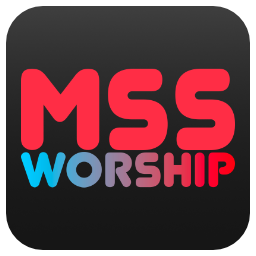
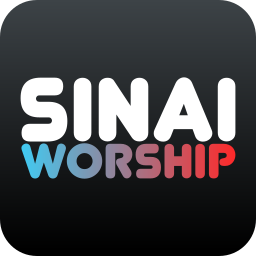
v 0.1.0 :33

diff --git a/src/ui/GlobalContext.tsx b/src/ui/GlobalContext.tsx
@@ -1,40 +1,40 @@
-import { createContext, useState, useLayoutEffect } from "react";
+import { createContext, useState, useEffect, useLayoutEffect } from "react";
 
 export const GlobalContext = createContext<GlobalContextType | null>(null);
-const GlobalContextProvider: React.FC<{ children: React.ReactNode }> = ({ 
+const GlobalContextProvider: React.FC<{ children: React.ReactNode }> = ({
   children,
 }) => {
-  const MAX_LIVE_ELEMENTS = 5;
-  // --- live element --------------------------------------------------------- 
-  const makeLiveElementsState = (): LiveElementsState => {
-    const [v, s] = useState<LiveElementType[]>(
-      Array.from({ length: MAX_LIVE_ELEMENTS }, (_) => ({
-        type: "none",
-        value: "",
-        buttonID: -1,
-        object: null, 
-      })),
-    ); 
+  const MAX_LIVE_ELEMENTS = 4;
+  // --- live element ---------------------------------------------------------
+  //const makeLiveElementsState = (): LiveElementsState => {
+  const [v, s] = useState<LiveElementType[]>(
+    Array.from({ length: MAX_LIVE_ELEMENTS }, (_) => ({
+      type: "none",
+      value: "",
+      buttonID: -1,
+      object: null,
+    })),
+  );
 
-    /** wrapper for other stuff to be done when updating live element */
-    const setLiveElementsState = (
-      newLiveElements: IndexedLiveElementsObject[],
-    ) => {
-      const newV: LiveElementType[] = [...v];
-      newLiveElements.forEach((item) => {
-        newV[item.index] = item.liveElement;
-        window.electron.sendSetLiveElement(item.index, item.liveElement);
-      });
-      s(newV);
-    };
-
-    return { value: v, set: setLiveElementsState };
+  /** wrapper for other stuff to be done when updating live element */
+  const setLiveElementsState = (
+    newLiveElements: IndexedLiveElementsObject[],
+  ) => {
+    const newV: LiveElementType[] = [...v];
+    newLiveElements.forEach((item) => {
+      newV[item.index] = item.liveElement;
+      window.electron.sendSetLiveElement(item.index, item.liveElement);
+    });
+    s(newV);
   };
+
+  const liveElementsState = { value: v, set: setLiveElementsState };
+  //};
 
   const [openV, openS] = useState<OpenElementType[]>([]);
   const [viewV, viewS] = useState<OpenElementType>({
     type: "none",
-  }); 
+  });
   const [bcV, bcS] = useState<"main" | "display">("main");
 
   const openElements = { value: openV, set: openS };
@@ -49,13 +49,13 @@ const GlobalContextProvider: React.FC<{ children: React.ReactNode }> = ({
     setLogo(v);
     window.electron.sendSetLogo(v);
   }
-  const logoState = {value: logo, set: superSetLogo};
+  const logoState = { value: logo, set: superSetLogo };
 
   useLayoutEffect(() => {
     window.electron
       .invokeReadDisplaySetting({})
       .then((data: FullDisplayConfigType) => {
-        console.log(data)
+        console.log(data);
         displayConfig.set(data);
       });
   }, []);
@@ -64,7 +64,7 @@ const GlobalContextProvider: React.FC<{ children: React.ReactNode }> = ({
     <GlobalContext.Provider
       value={{
         MAX_LIVE_ELEMENTS,
-        liveElementsState: makeLiveElementsState(),
+        liveElementsState,
         openElements,
         viewElement,
         logoState,

diff --git a/src/electron/main.ts b/src/electron/main.ts
@@ -2,7 +2,7 @@ import { app, protocol, net, BrowserWindow, ipcMain, dialog } from "electron";
 import url from "node:url";
 import path from "path";
 import { isDev } from "./util.js";
-import { getPreloadPath } from "./pathResolver.js";
+import { getConfigPath, getPreloadPath } from "./pathResolver.js";
 import { readMSSFile, writeMSSFile } from "./parser.js";
 //import { promises as fsp } from "fs";
 import * as fs from "fs";
@@ -270,7 +270,7 @@ const readFullConfig = () => {
 
   try {
     const fConfig: FullDisplayConfigType = JSON.parse(
-      fs.readFileSync(path.join(app.getAppPath(), "config.json"), "utf8"),
+      fs.readFileSync(getConfigPath(), "utf8"),
     );
 
     const curConfig = makeDefaultFullConfig();
@@ -283,7 +283,7 @@ const readFullConfig = () => {
     return curConfig;
   } catch (err) {
     fs.writeFileSync(
-      path.join(app.getAppPath(), "config.json"),
+      getConfigPath(),
       JSON.stringify(makeDefaultFullConfig()),
     );
     return makeDefaultFullConfig();
@@ -445,7 +445,7 @@ app.on("ready", () => {
       console.log("updated activeConfig", "wrote:", entry.key, entry.value);
 
       fs.writeFile(
-        path.join(app.getAppPath(), "config.json"),
+        getConfigPath(),
         JSON.stringify(activeConfig),
         (err) => {
           console.log("wrote config.json", err);

diff --git a/src/electron/pathResolver.ts b/src/electron/pathResolver.ts
@@ -2,10 +2,20 @@ import path from "path";
 import { app } from "electron";
 import { isDev } from "./util.js";
 
-export function getPreloadPath(): string {
+function getPreloadPath(): string {
   return path.join(
     app.getAppPath(),
     isDev() ? "." : "..",
     "dist-electron/preload.cjs",
   );
 }
+
+function getConfigPath(): string {
+  return path.join(
+    app.getAppPath(),
+    isDev() ? "." : "..",
+    "config.json",
+  );
+}
+
+export {getConfigPath, getPreloadPath}

diff --git a/types.d.ts b/types.d.ts
@@ -63,6 +63,10 @@ type InvokeJSON = (obj: any) => Promise<any>;
 
 interface Window {
   electron: {
+    useIpcListener: (
+      channel: string,
+      callback: (...args: any[]) => void,
+    ) => () => () => void;
     invokeReadElement: (
       callback: (newElement: OpenElementType) => void,
     ) => void;

diff --git a/index.html b/index.html
@@ -4,7 +4,7 @@
     <meta charset="UTF-8" />
     <link rel="icon" type="image/svg+xml" href="/vite.svg" />
     <meta name="viewport" content="width=device-width, initial-scale=1.0" />
-    <title>Vite + React + TS</title>
+    <title>Sinai Worship</title>
   </head>
   <body>
     <div id="root"></div>

diff --git a/dist-display/display.css b/dist-display/display.css
@@ -53,6 +53,7 @@ body {
   position: absolute;
   top: 0;
   left: 0;
+  text-align: center;
 }
 
 .text {
